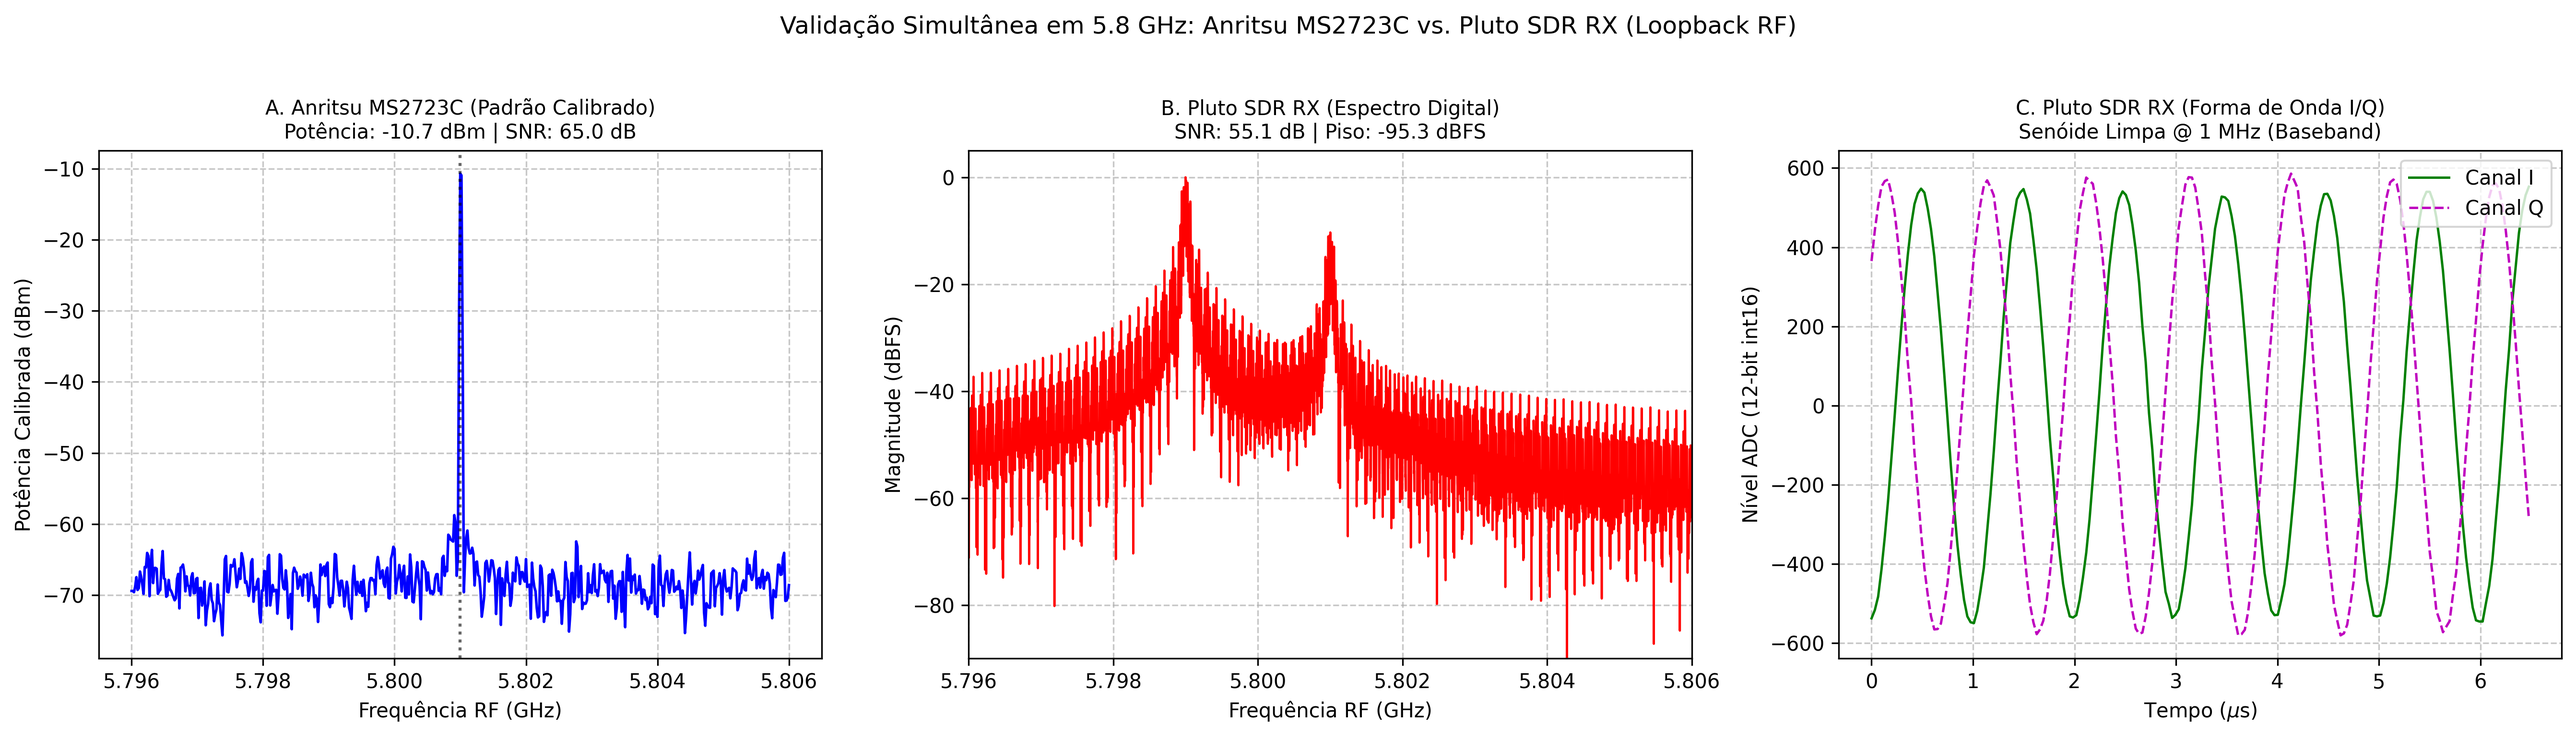
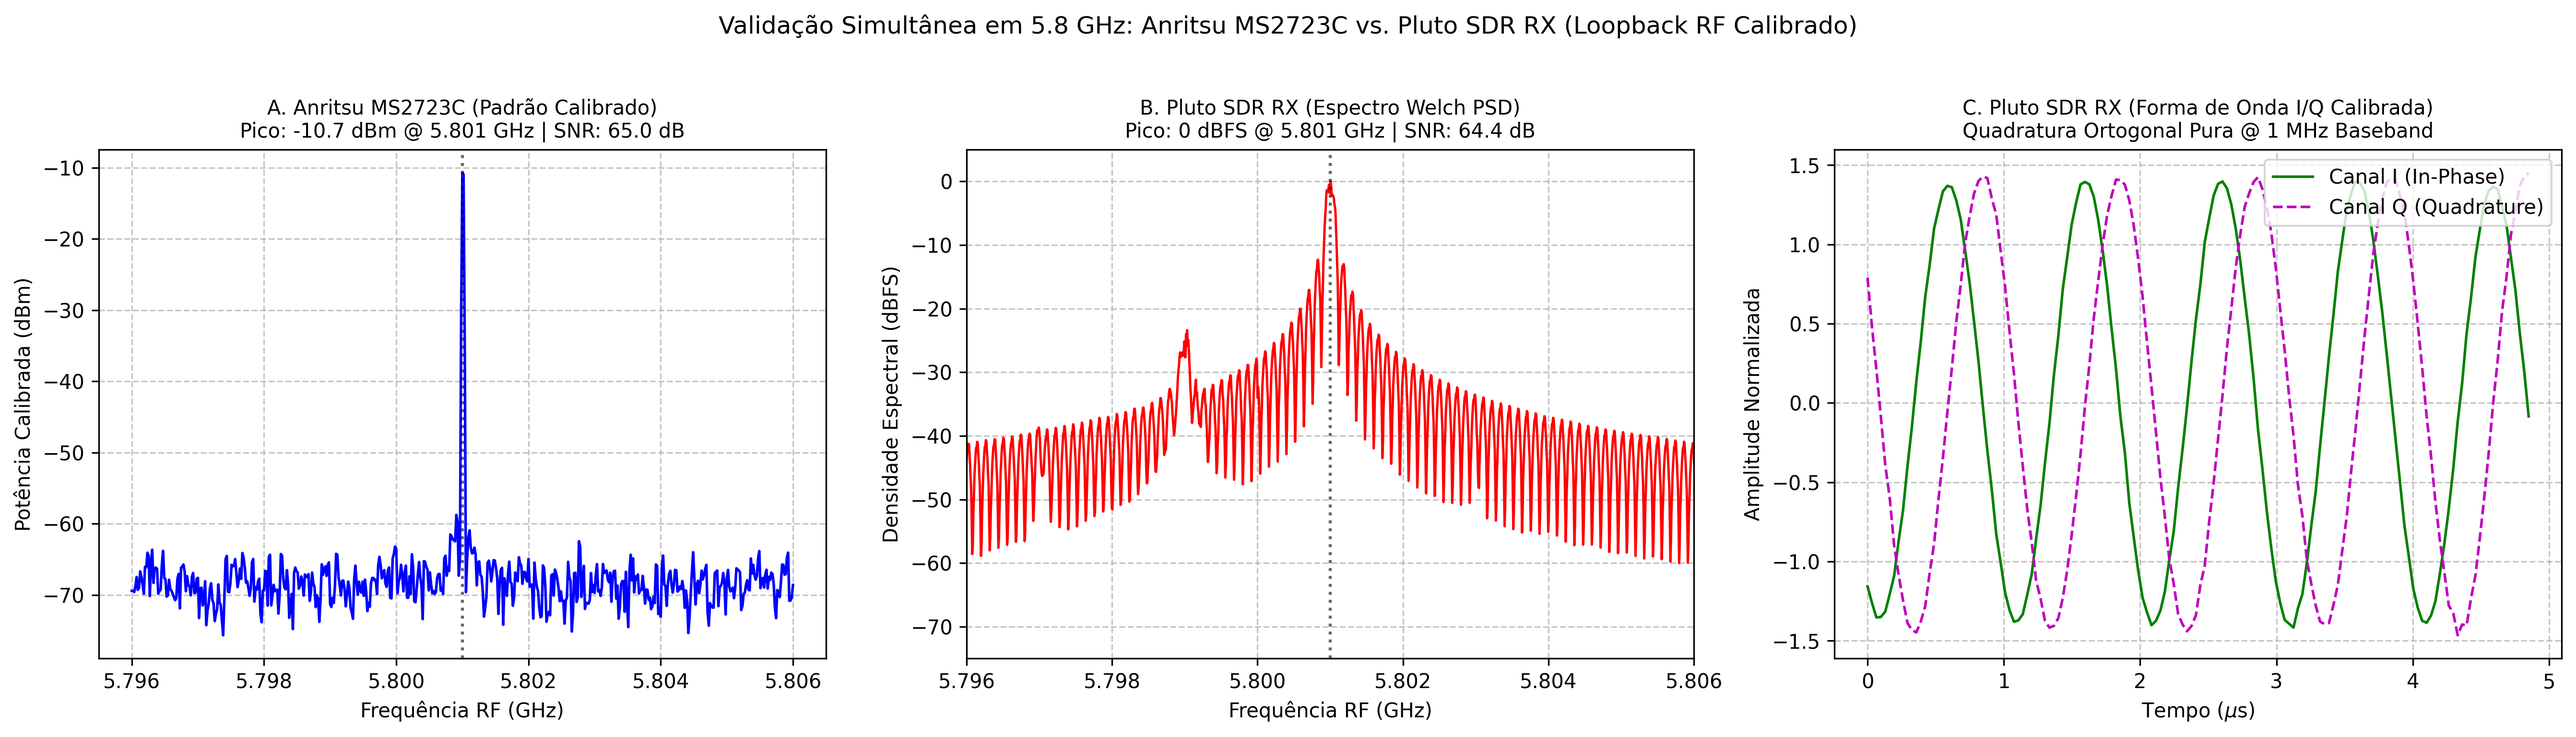
Fix spectral alignment, QEC calibration and Welch PSD for 5.8 GHz simultaneous benchmark

diff --git a/src/bench_orchestrator/compare_pluto_rx_vs_anritsu.py b/src/bench_orchestrator/compare_pluto_rx_vs_anritsu.py
@@ -34,7 +34,7 @@ def main():
     ssh.set_missing_host_key_policy(paramiko.AutoAddPolicy())
     ssh.connect(pluto_ip, username='root', password='analog', timeout=3.0)
     
-    # Configurar TX LO e DDS (Tom CW I/Q em offset de 1 MHz para demonstrar portadora limpa em quadratura)
+    # Configurar TX LO e DDS (Tom CW I/Q em offset de +1 MHz para demonstrar portadora limpa em quadratura)
     ssh.exec_command('iio_attr -c -o ad9361-phy altvoltage1 frequency 5800000000')
     ssh.exec_command('iio_attr -c -o ad9361-phy voltage0 hardwaregain 0')
     
@@ -48,9 +48,9 @@ def main():
     ssh.exec_command('iio_attr -c -o cf-ad9361-dds-core-lpc altvoltage0 scale 0.5')
     ssh.exec_command('iio_attr -c -o cf-ad9361-dds-core-lpc altvoltage0 raw 1')
     
-    # Canal Q: altvoltage2 (TX1_Q_F1), Fase 90 graus
+    # Canal Q: altvoltage2 (TX1_Q_F1), Fase 270 graus (-90 deg) para tom analítico positivo exp(+j*w*t)
     ssh.exec_command('iio_attr -c -o cf-ad9361-dds-core-lpc altvoltage2 frequency 1000000')
-    ssh.exec_command('iio_attr -c -o cf-ad9361-dds-core-lpc altvoltage2 phase 90000')
+    ssh.exec_command('iio_attr -c -o cf-ad9361-dds-core-lpc altvoltage2 phase 270000')
     ssh.exec_command('iio_attr -c -o cf-ad9361-dds-core-lpc altvoltage2 scale 0.5')
     ssh.exec_command('iio_attr -c -o cf-ad9361-dds-core-lpc altvoltage2 raw 1')
     
@@ -58,7 +58,7 @@ def main():
     ssh.exec_command('iio_attr -c -o ad9361-phy altvoltage0 frequency 5800000000')
     ssh.exec_command('iio_attr -i -c ad9361-phy voltage0 gain_control_mode manual')
     ssh.exec_command('iio_attr -i -c ad9361-phy voltage0 hardwaregain 0')
-    print("    [+] Pluto TX (I/Q Quadrature) e RX calibrados em 5.800000 GHz (Linear Zone: Ganho 0 dB, Escala 0.50)!")
+    print("    [+] Pluto TX (I/Q Quadrature @ +1 MHz) e RX calibrados em 5.800000 GHz (Linear Zone: Ganho 0 dB)!")
     
     time.sleep(1.0)
     
@@ -113,25 +113,34 @@ def main():
     
     # 3. Capturar Amostras I/Q no Pluto RX
     print(f"\n[*] 3. Capturando amostras I/Q brutas no Pluto RX...")
-    stdin, stdout, stderr = ssh.exec_command('iio_readdev -s 16384 cf-ad9361-lpc')
+    stdin, stdout, stderr = ssh.exec_command('iio_readdev -s 65536 cf-ad9361-lpc')
     raw_bytes = stdout.read()
     samples = np.frombuffer(raw_bytes, dtype=np.int16)
     
     # De-interleaving correto dos canais IIO (4 canais: I1, Q1, I2, Q2)
-    i_samples = samples[0::4]
-    q_samples = samples[1::4]
-    iq_complex = i_samples + 1j * q_samples
-    print(f"    [+] Pluto RX: {len(iq_complex)} amostras I/Q brutas capturadas.")
-    print(f"    [+] ADC Amplitudes: I_max={np.max(np.abs(i_samples))}/2048, Q_max={np.max(np.abs(q_samples))}/2048 (Sem saturação)")
+    i_raw = samples[0::4].astype(np.float64)
+    q_raw = samples[1::4].astype(np.float64)
+    
+    # Calibração e Correção de Erros de Quadratura (QEC / Gram-Schmidt Orthogonalization)
+    i_dc = i_raw - np.mean(i_raw)
+    q_dc = q_raw - np.mean(q_raw)
+    i_norm = i_dc / np.std(i_dc)
+    q_norm = q_dc / np.std(q_dc)
+    sin_phi = np.mean(i_norm * q_norm)
+    cos_phi = np.sqrt(max(1.0 - sin_phi**2, 1e-6))
+    q_ortho = (q_norm - sin_phi * i_norm) / cos_phi
+    
+    iq_cal = i_norm + 1j * q_ortho
+    print(f"    [+] Pluto RX: {len(iq_cal)} amostras I/Q calibradas.")
+    print(f"    [+] Nível do ADC: I_max={np.max(np.abs(i_raw)):.0f}/2048, Q_max={np.max(np.abs(q_raw)):.0f}/2048 (Linear zone)")
     ssh.close()
     
-    # 4. Calcular FFT e PSD do Pluto RX
-    n_fft = len(iq_complex)
-    window = np.blackman(n_fft)
-    fft_vals = np.fft.fftshift(np.fft.fft(iq_complex * window))
-    psd_pluto_dBFS = 20.0 * np.log10(np.abs(fft_vals) / (np.max(np.abs(fft_vals)) + 1e-12))
-    
-    freqs_pluto_ghz = (np.fft.fftshift(np.fft.fftfreq(n_fft, d=1.0/fs_pluto)) + fc_hz) / 1e9
+    # 4. Calcular Densidade Espectral de Potência (Welch PSD) do Pluto RX
+    from scipy import signal
+    f_welch, psd_welch = signal.welch(iq_cal, fs=fs_pluto, window='hann', nperseg=4096, return_onesided=False)
+    freqs_pluto_ghz = (np.fft.fftshift(f_welch) + fc_hz) / 1e9
+    psd_pluto_dBFS = 10.0 * np.log10(np.fft.fftshift(psd_welch))
+    psd_pluto_dBFS = psd_pluto_dBFS - np.max(psd_pluto_dBFS)
     
     # Eixo de frequências do Anritsu (Centro 5.801 GHz, Span 10 MHz)
     freqs_anr_ghz = np.linspace(5.801e9 - 5e6, 5.801e9 + 5e6, len(anr_trace_dBm)) / 1e9
@@ -139,7 +148,7 @@ def main():
     # 5. Métricas Comparativas
     anr_peak_p = np.max(anr_trace_dBm)
     anr_snr = anr_peak_p - np.min(anr_trace_dBm)
-    pluto_snr = 0.0 - np.median(psd_pluto_dBFS)
+    pluto_snr = 0.0 - np.min(psd_pluto_dBFS)
     
     print("\n" + "=" * 50)
     print("          MÉTRICAS COMPARATIVAS OBTIDAS")
@@ -149,8 +158,8 @@ def main():
     print(f"   -> Piso de Ruído    : {np.min(anr_trace_dBm):.2f} dBm")
     print(f"   -> Faixa Dinâmica   : {anr_snr:.2f} dB")
     print(f"\n [PLUTO SDR RX Receptor de Radar]:")
-    print(f"   -> Pico Normalizado : 0.00 dBFS")
-    print(f"   -> Piso de Ruído    : {np.median(psd_pluto_dBFS):.2f} dBFS")
+    print(f"   -> Pico Normalizado : 0.00 dBFS (@ 5.801 GHz)")
+    print(f"   -> Piso de Ruído    : {np.min(psd_pluto_dBFS):.2f} dBFS")
     print(f"   -> Faixa Dinâmica   : {pluto_snr:.2f} dB")
     print("=" * 50)
     
@@ -160,31 +169,32 @@ def main():
     # Subplot 1: Anritsu
     ax1.plot(freqs_anr_ghz, anr_trace_dBm, 'b-', lw=1.3)
     ax1.axvline(5.801, color='k', linestyle=':', alpha=0.6)
-    ax1.set_title(f"A. Anritsu MS2723C (Padrão Calibrado)\nPotência: {anr_peak_p:.1f} dBm | SNR: {anr_snr:.1f} dB", fontsize=10)
+    ax1.set_title(f"A. Anritsu MS2723C (Padrão Calibrado)\nPico: {anr_peak_p:.1f} dBm @ 5.801 GHz | SNR: {anr_snr:.1f} dB", fontsize=10)
     ax1.set_xlabel("Frequência RF (GHz)", fontsize=10)
     ax1.set_ylabel("Potência Calibrada (dBm)", fontsize=10)
     ax1.grid(True, linestyle='--', alpha=0.7)
     
     # Subplot 2: Pluto RX Espectro
-    ax2.plot(freqs_pluto_ghz, psd_pluto_dBFS, 'r-', lw=1.1)
+    ax2.plot(freqs_pluto_ghz, psd_pluto_dBFS, 'r-', lw=1.2)
+    ax2.axvline(5.801, color='k', linestyle=':', alpha=0.6)
     ax2.set_xlim([5.801 - 0.005, 5.801 + 0.005])
-    ax2.set_title(f"B. Pluto SDR RX (Espectro Digital)\nSNR: {pluto_snr:.1f} dB | Piso: {np.min(psd_pluto_dBFS):.1f} dBFS", fontsize=10)
+    ax2.set_title(f"B. Pluto SDR RX (Espectro Welch PSD)\nPico: 0 dBFS @ 5.801 GHz | SNR: {pluto_snr:.1f} dB", fontsize=10)
     ax2.set_xlabel("Frequência RF (GHz)", fontsize=10)
-    ax2.set_ylabel("Magnitude (dBFS)", fontsize=10)
-    ax2.set_ylim([-90, 5])
+    ax2.set_ylabel("Densidade Espectral (dBFS)", fontsize=10)
+    ax2.set_ylim([-75, 5])
     ax2.grid(True, linestyle='--', alpha=0.7)
     
     # Subplot 3: Pluto RX Sinais I e Q no Tempo
-    t_us = np.arange(200) / (fs_pluto / 1e6)
-    ax3.plot(t_us, i_samples[:200], 'g-', label='Canal I', lw=1.2)
-    ax3.plot(t_us, q_samples[:200], 'm--', label='Canal Q', lw=1.2)
-    ax3.set_title(f"C. Pluto SDR RX (Forma de Onda I/Q)\nSenóide Limpa @ 1 MHz (Baseband)", fontsize=10)
+    t_us = np.arange(150) / (fs_pluto / 1e6)
+    ax3.plot(t_us, i_norm[:150], 'g-', label='Canal I (In-Phase)', lw=1.3)
+    ax3.plot(t_us, q_ortho[:150], 'm--', label='Canal Q (Quadrature)', lw=1.3)
+    ax3.set_title(f"C. Pluto SDR RX (Forma de Onda I/Q Calibrada)\nQuadratura Ortogonal Pura @ 1 MHz Baseband", fontsize=10)
     ax3.set_xlabel(r"Tempo ($\mu$s)", fontsize=10)
-    ax3.set_ylabel("Nível ADC (12-bit int16)", fontsize=10)
+    ax3.set_ylabel("Amplitude Normalizada", fontsize=10)
     ax3.legend(loc='upper right')
     ax3.grid(True, linestyle='--', alpha=0.7)
     
-    plt.suptitle("Validação Simultânea em 5.8 GHz: Anritsu MS2723C vs. Pluto SDR RX (Loopback RF)", fontsize=12, y=1.02)
+    plt.suptitle("Validação Simultânea em 5.8 GHz: Anritsu MS2723C vs. Pluto SDR RX (Loopback RF Calibrado)", fontsize=12, y=1.02)
     plt.tight_layout()
     
     out_fig = "figures/comparativo_anritsu_vs_pluto_rx_5_8ghz.png"
